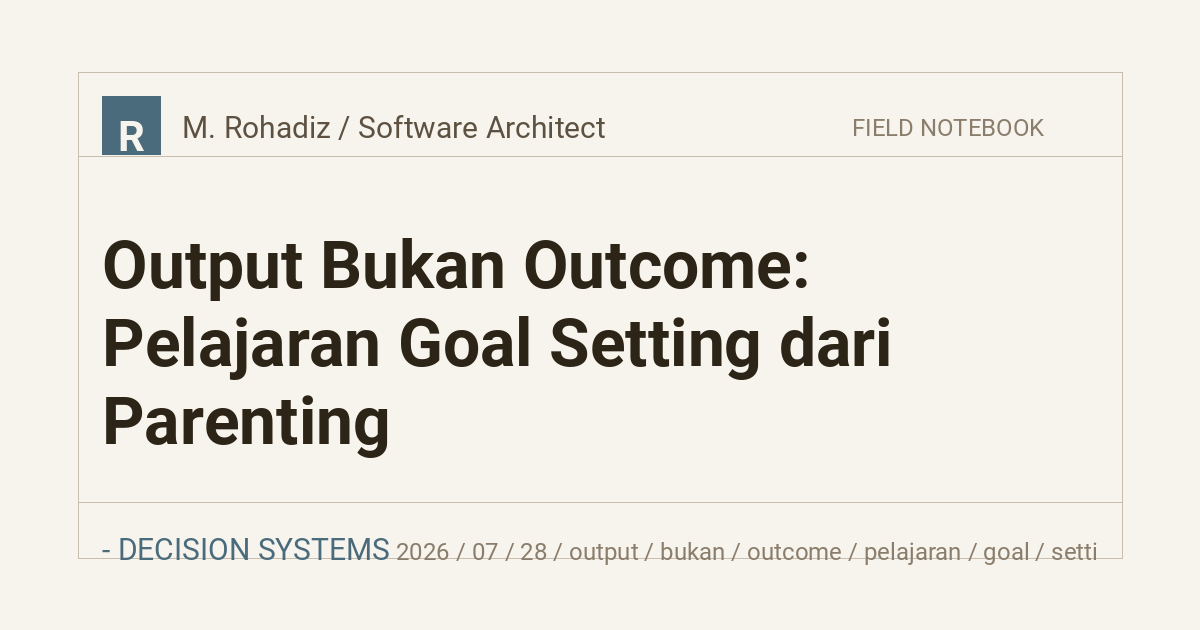
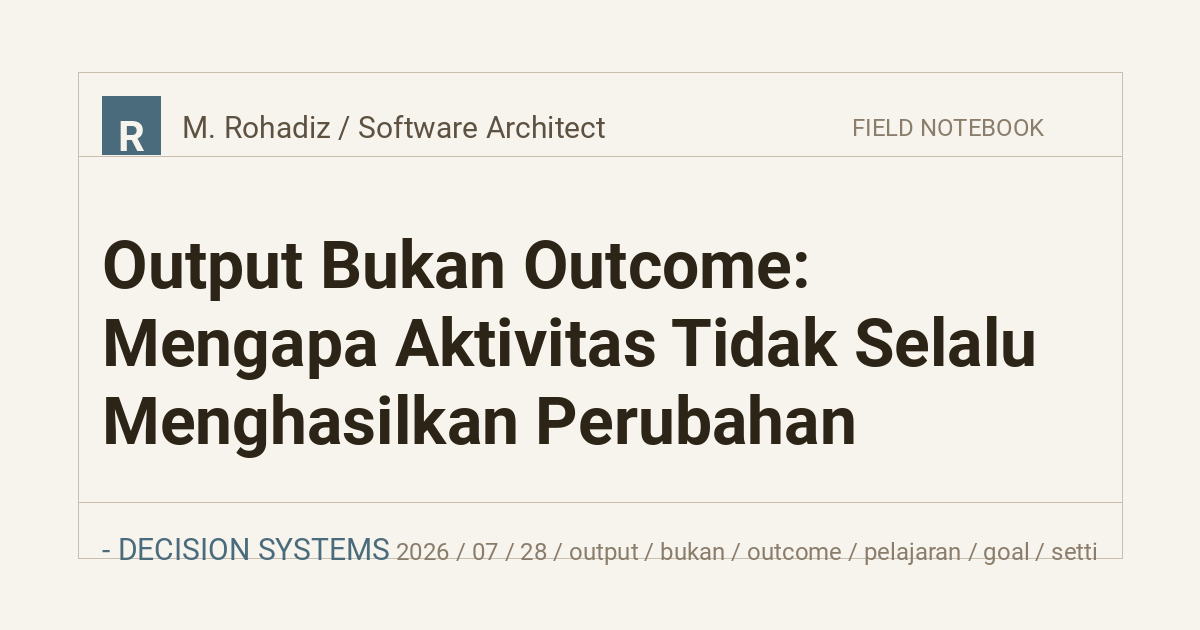
chore(seo): auto-generate open graph images [skip ci]

Changed region(s): [[0.0925, 0.4825, 0.8633, 0.6032], [0.0925, 0.6032, 0.7092, 0.7238]]

diff --git a/_posts/2026-07-28-output-bukan-outcome-pelajaran-goal-setting-dari-parenting.md b/_posts/2026-07-28-output-bukan-outcome-pelajaran-goal-setting-dari-parenting.md
@@ -10,6 +10,7 @@ tags:
   - capability-building
   - systems-thinking
 excerpt: "Output adalah aktivitas yang dilakukan sistem. Outcome adalah perubahan yang dihasilkan. Memahami perbedaannya mengubah cara kita mengevaluasi keberhasilan."
+image: /assets/images/og/2026-07-28-output-bukan-outcome-pelajaran-goal-setting-dari-parenting.png
 ---
 
 # Output Bukan Outcome: Mengapa Aktivitas Tidak Selalu Menghasilkan Perubahan
